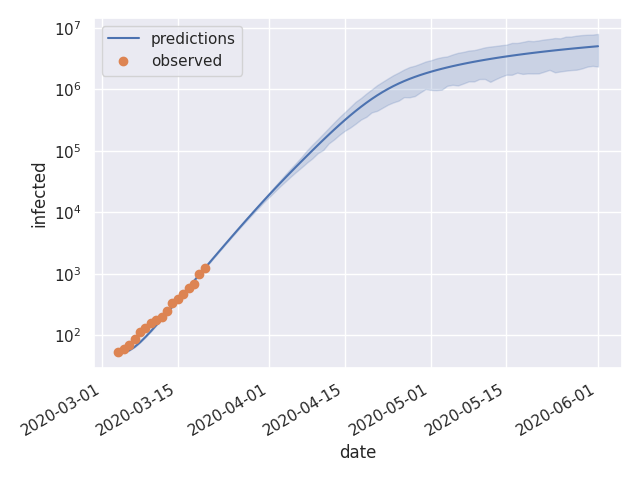
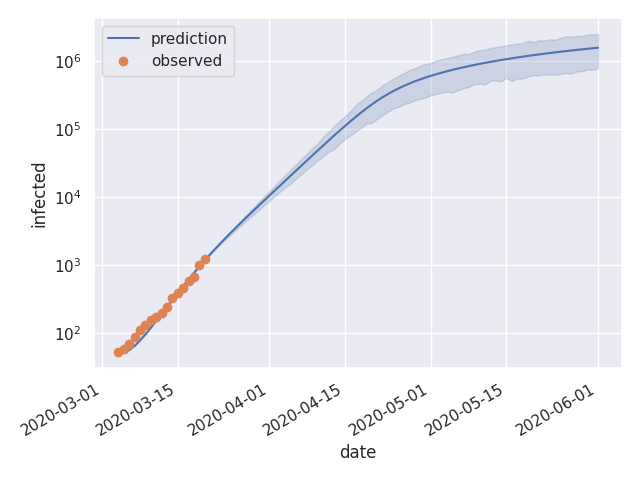
crop

diff --git a/main.py b/main.py
@@ -40,6 +40,9 @@ class State:
         self.I += dI
         self.R += dR
 
+        self.S = max(0, min(N0, self.S))
+        self.I = max(0, min(N0, self.I))
+
     def __list__(self):
         return (self.S, self.E, self.I, self.R)
 
@@ -77,7 +80,7 @@ def objective(trial):
 
 def fit(seed):
     study = optuna.create_study(sampler=optuna.samplers.TPESampler(seed=seed))
-    study.optimize(objective, n_trials=512)
+    study.optimize(objective, n_trials=256)
     return study.best_params
 
 
@@ -94,14 +97,12 @@ def plot(params):
         )
         for param in params
     ]
-    predictions = filter(
-        lambda x: not x.isna().any() and (x < N0).all(),
-        predictions
-    )
     seaborn.set()
+    ax = None
     ax = seaborn.lineplot(
         data=pandas.concat(predictions),
-        label='predictions',
+        label='prediction',
+        ax=ax,
     )
     ax = observed.plot.line(style='o', label='observed', ax=ax)
     ax.legend()
@@ -116,6 +117,6 @@ if __name__ == '__main__':
     pool = multiprocessing.Pool(8)
     params = pool.map(
         fit,
-        range(32),
+        range(64),
     )
     plot(params)
